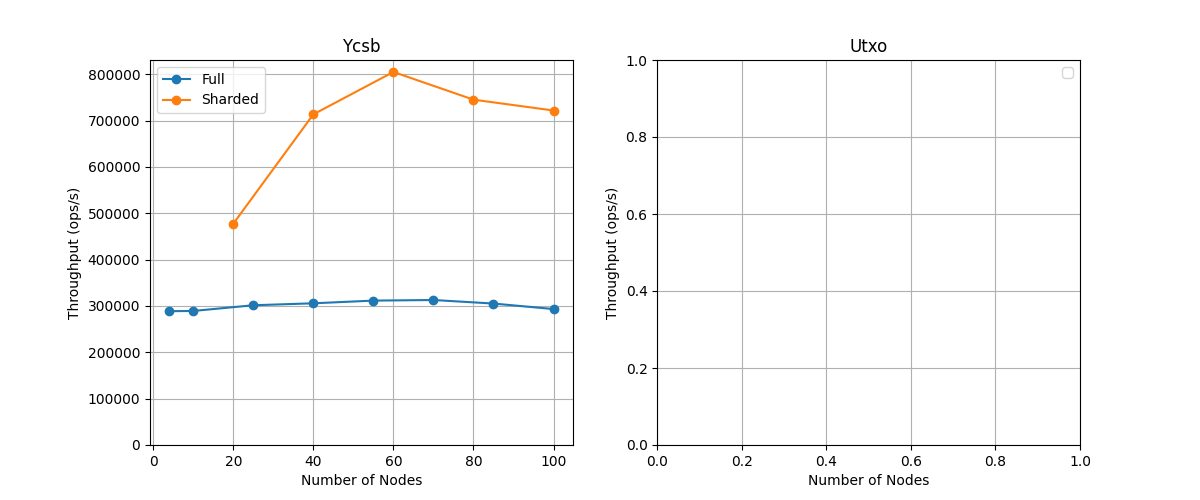
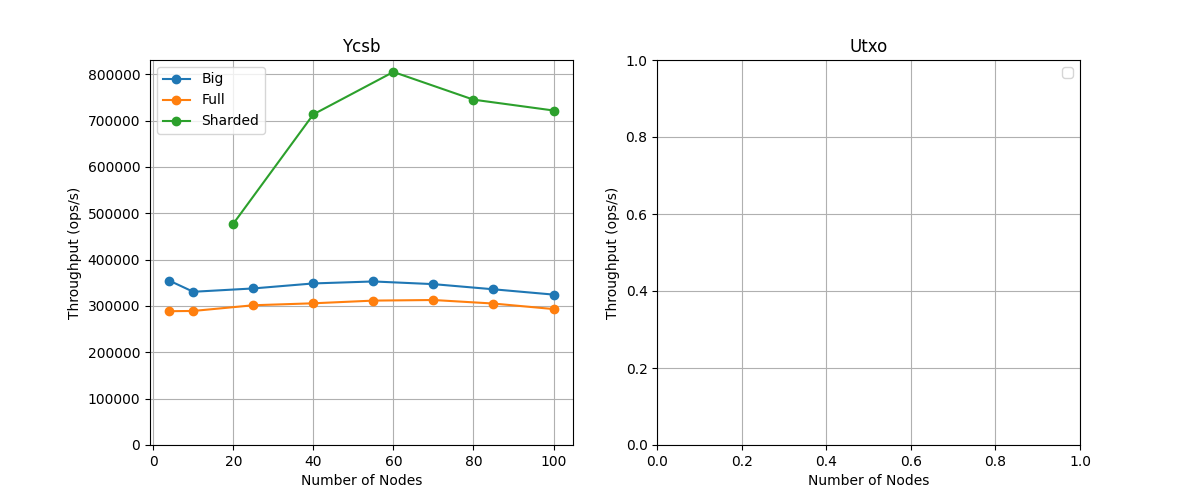
feat(data): ycsb big node tput

diff --git a/control/src/bin/nodes-tput.rs b/control/src/bin/nodes-tput.rs
@@ -54,7 +54,18 @@ async fn main() -> anyhow::Result<()> {
                 .await?;
             }
         }
-        (App::Ycsb, Storage::Big) => {}
+        (App::Ycsb, Storage::Big) => {
+            for f in [1, 3, 8, 13, 18, 23, 28, 33] {
+                run.perform(
+                    Sharding {
+                        num_shards: 1,
+                        num_shard_faulty_nodes: f,
+                    },
+                    20_000,
+                )
+                .await?;
+            }
+        }
 
         (App::Utxo, Storage::Full) => {}
         (App::Utxo, Storage::Big) => {}
